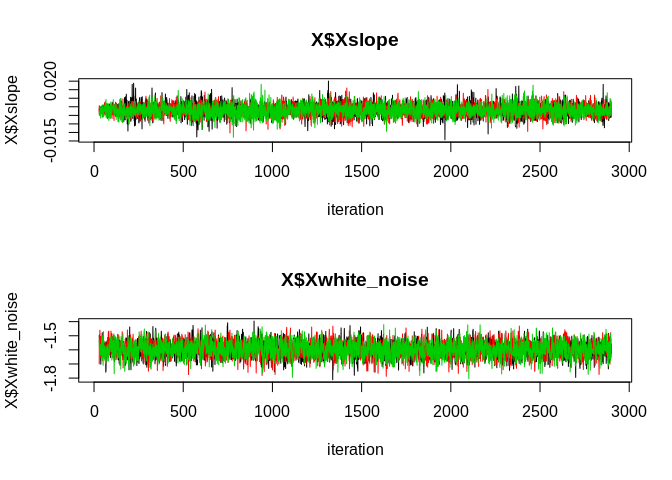
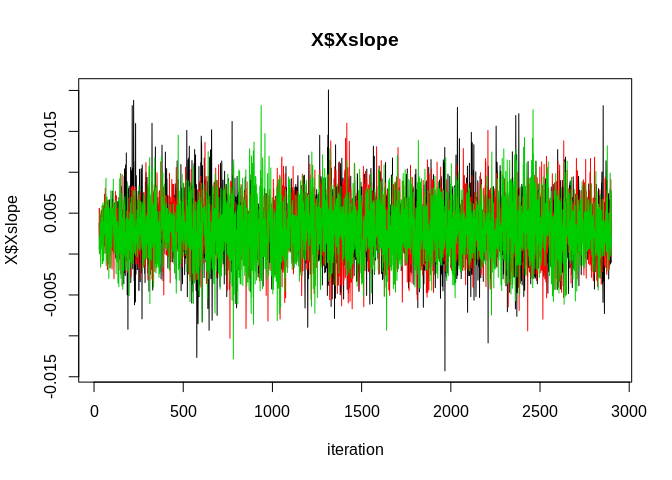
Let's hope it's the last

diff --git a/Vignette.md b/Vignette.md
@@ -113,7 +113,7 @@ mcmc_nngp_list = mcmc_nngp_initialize(observed_locs = locs, observed_field = obs
                                             seed = 1)
 ```
 
-    ## [1] "Setup done, 1.40438795089722 s elapsed"
+    ## [1] "Setup done, 1.23651695251465 s elapsed"
 
 What is there in the list we just created ?
 -------------------------------------------
@@ -538,7 +538,7 @@ print(mcmc_nngp_list$records)
     ## $chain_1
     ## $chain_1$iterations
     ##      iteration     time
-    ## [1,]         0 1.403749
+    ## [1,]         0 1.235978
     ## 
     ## $chain_1$params
     ## list()
@@ -547,7 +547,7 @@ print(mcmc_nngp_list$records)
     ## $chain_2
     ## $chain_2$iterations
     ##      iteration     time
-    ## [1,]         0 1.404277
+    ## [1,]         0 1.236422
     ## 
     ## $chain_2$params
     ## list()
@@ -556,7 +556,7 @@ print(mcmc_nngp_list$records)
     ## $chain_3
     ## $chain_3$iterations
     ##      iteration     time
-    ## [1,]         0 1.404335
+    ## [1,]         0 1.236476
     ## 
     ## $chain_3$params
     ## list()
@@ -581,7 +581,7 @@ Miscellaneous
 print(mcmc_nngp_list$t_begin) # the time setup was done 
 ```
 
-    ## [1] "2020-09-22 13:20:21 CEST"
+    ## [1] "2020-09-22 13:36:53 CEST"
 
 ``` r
 print(mcmc_nngp_list$seed) # the seed 
@@ -853,7 +853,7 @@ raw_chains_plots_covparms(records = mcmc_nngp_list$records, burn_in = 0.01, n_ch
 raw_chains_plots_beta(records = mcmc_nngp_list$records, burn_in = 0.01, n_chains = 1)
 ```
 
-![](Vignette_files/figure-markdown_github/unnamed-chunk-14-1.png)
+![](Vignette_files/figure-markdown_github/unnamed-chunk-14-1.png)![](Vignette_files/figure-markdown_github/unnamed-chunk-14-2.png)
 
 Parameters estimation
 =====================
@@ -1014,7 +1014,7 @@ mcmc_nngp_list = mcmc_nngp_initialize(observed_locs = locs, observed_field = obs
                                             seed = 1)
 ```
 
-    ## [1] "Setup done, 0.449408531188965 s elapsed"
+    ## [1] "Setup done, 0.448009490966797 s elapsed"
 
 ``` r
 mcmc_nngp_list =  mcmc_nngp_run(mcmc_nngp_list, n_cores = 3,
@@ -1062,4 +1062,4 @@ mcmc_nngp_list =  mcmc_nngp_run(mcmc_nngp_list, n_cores = 3,
 raw_chains_plots_beta(mcmc_nngp_list$records, burn_in = .01, n_chains = 1)
 ```
 
-![](Vignette_files/figure-markdown_github/unnamed-chunk-19-1.png)
+![](Vignette_files/figure-markdown_github/unnamed-chunk-19-1.png)![](Vignette_files/figure-markdown_github/unnamed-chunk-19-2.png)
